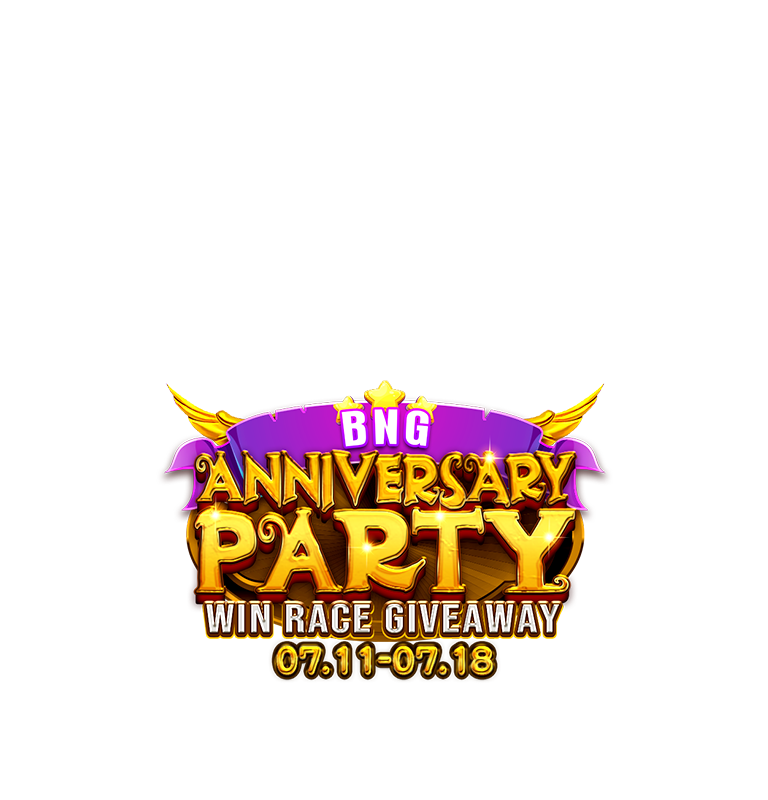
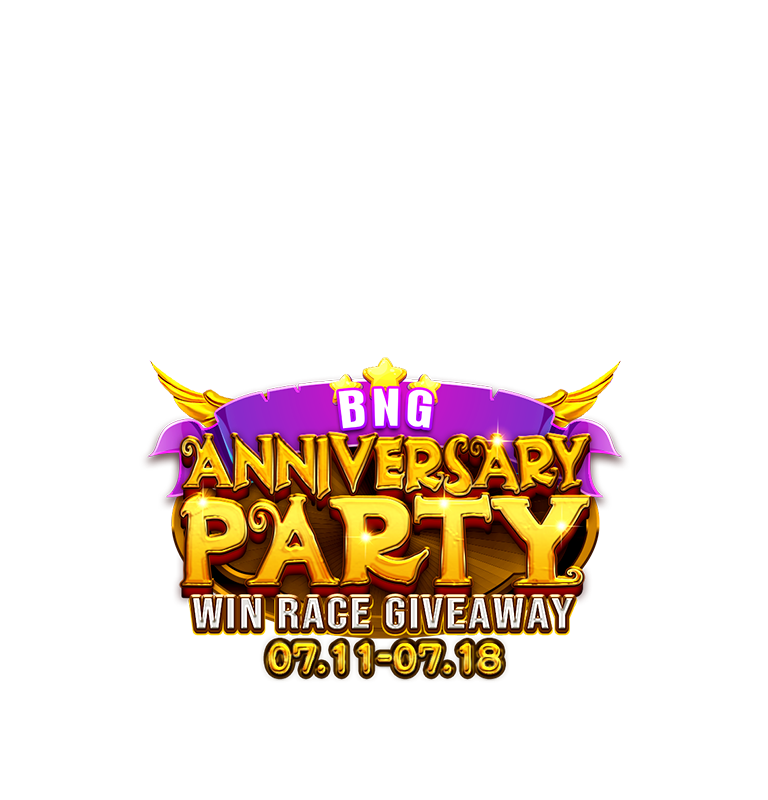
slogan size

Changed region(s): [[0.1875, 0.4375, 0.8125, 0.875]]

diff --git a/css/style.css b/css/style.css
@@ -242,6 +242,8 @@ ul {
   top: -2%;
   -webkit-animation-delay: -3s;
           animation-delay: -3s;
+  -webkit-transform: rotate(-80deg);
+          transform: rotate(-80deg);
 }
 
 .site-main-wrapper .pc-mode .character {
@@ -268,6 +270,8 @@ ul {
 .site-main-wrapper .pc-mode .ribbonStart {
   -webkit-animation: jello-horizontal 1.2s both;
           animation: jello-horizontal 1.2s both;
+  -webkit-animation-delay: 200ms;
+          animation-delay: 200ms;
 }
 
 .site-main-wrapper .pc-mode .connect-part {
@@ -913,6 +917,10 @@ ul {
   }
   .site-main-wrapper .pc-mode .background, .site-main-wrapper .pc-mode .glow, .site-main-wrapper .pc-mode .character, .site-main-wrapper .pc-mode .character-right, .site-main-wrapper .pc-mode .treasure, .site-main-wrapper .pc-mode .ribbon, .site-main-wrapper .pc-mode .banner-slogan-cn, .site-main-wrapper .pc-mode .banner-slogan-en, .site-main-wrapper .pc-mode .banner-slogan-id, .site-main-wrapper .pc-mode .banner-slogan-jp, .site-main-wrapper .pc-mode .banner-slogan-kr, .site-main-wrapper .pc-mode .banner-slogan-th, .site-main-wrapper .pc-mode .banner-slogan-tw, .site-main-wrapper .pc-mode .banner-slogan-vn, .site-main-wrapper .pc-mode .connect-part {
     height: 475px;
+  }
+  .site-main-wrapper .pc-mode .bnTitle {
+    -webkit-transform: translateX(10px);
+            transform: translateX(10px);
   }
   .site-main-wrapper .pc-mode .glow .cristal3 {
     width: 38%;

diff --git a/css/style.sass b/css/style.sass
@@ -163,6 +163,7 @@ ul
                 left: 42%
                 top: -2%
                 animation-delay: -3s
+                transform: rotate(-80deg)
         .character
             position: absolute
             +size(100%,44vw)
@@ -184,6 +185,7 @@ ul
             background-size: auto 100%, auto
         .ribbonStart
             animation: jello-horizontal 1.2s both 
+            animation-delay: 200ms
         .connect-part
             +pos()
             +size(100%,44vw)
@@ -591,6 +593,8 @@ ul
         height: 475px
         .background, .glow, .character, .character-right, .treasure, .ribbon, .banner-slogan-cn, .banner-slogan-en, .banner-slogan-id, .banner-slogan-jp, .banner-slogan-kr, .banner-slogan-th, .banner-slogan-tw, .banner-slogan-vn, .connect-part
             height: 475px
+        .bnTitle
+            transform: translateX(10px)
         .glow
             .cristal3
                 width: 38%

diff --git a/css/animate.css b/css/animate.css
@@ -357,7 +357,7 @@
     transform: scale(1.01) rotate(360deg) translateX(0px) translateY(2px) rotate(-360deg);
   }
   100%{
-    transform: scale(1.01) rotate(0deg) translateX(0px) translateY(50px) rotate(0deg);
+    transform: scale(1) rotate(0deg) translateX(-20px) translateY(50px) rotate(0deg);
     filter: brightness(120%) drop-shadow(0 0 0.75rem rgb(225, 251, 255));
   }
 }

diff --git a/js/switch.js b/js/switch.js
@@ -65,6 +65,7 @@ anime({
 	scale: [0,1],
 	duration: 700,
 	easing: 'spring(1, 80, 10, 0)',
+	delay: 200,
 	complete: function () {
         animationDone = true;
 		animateAdd();
